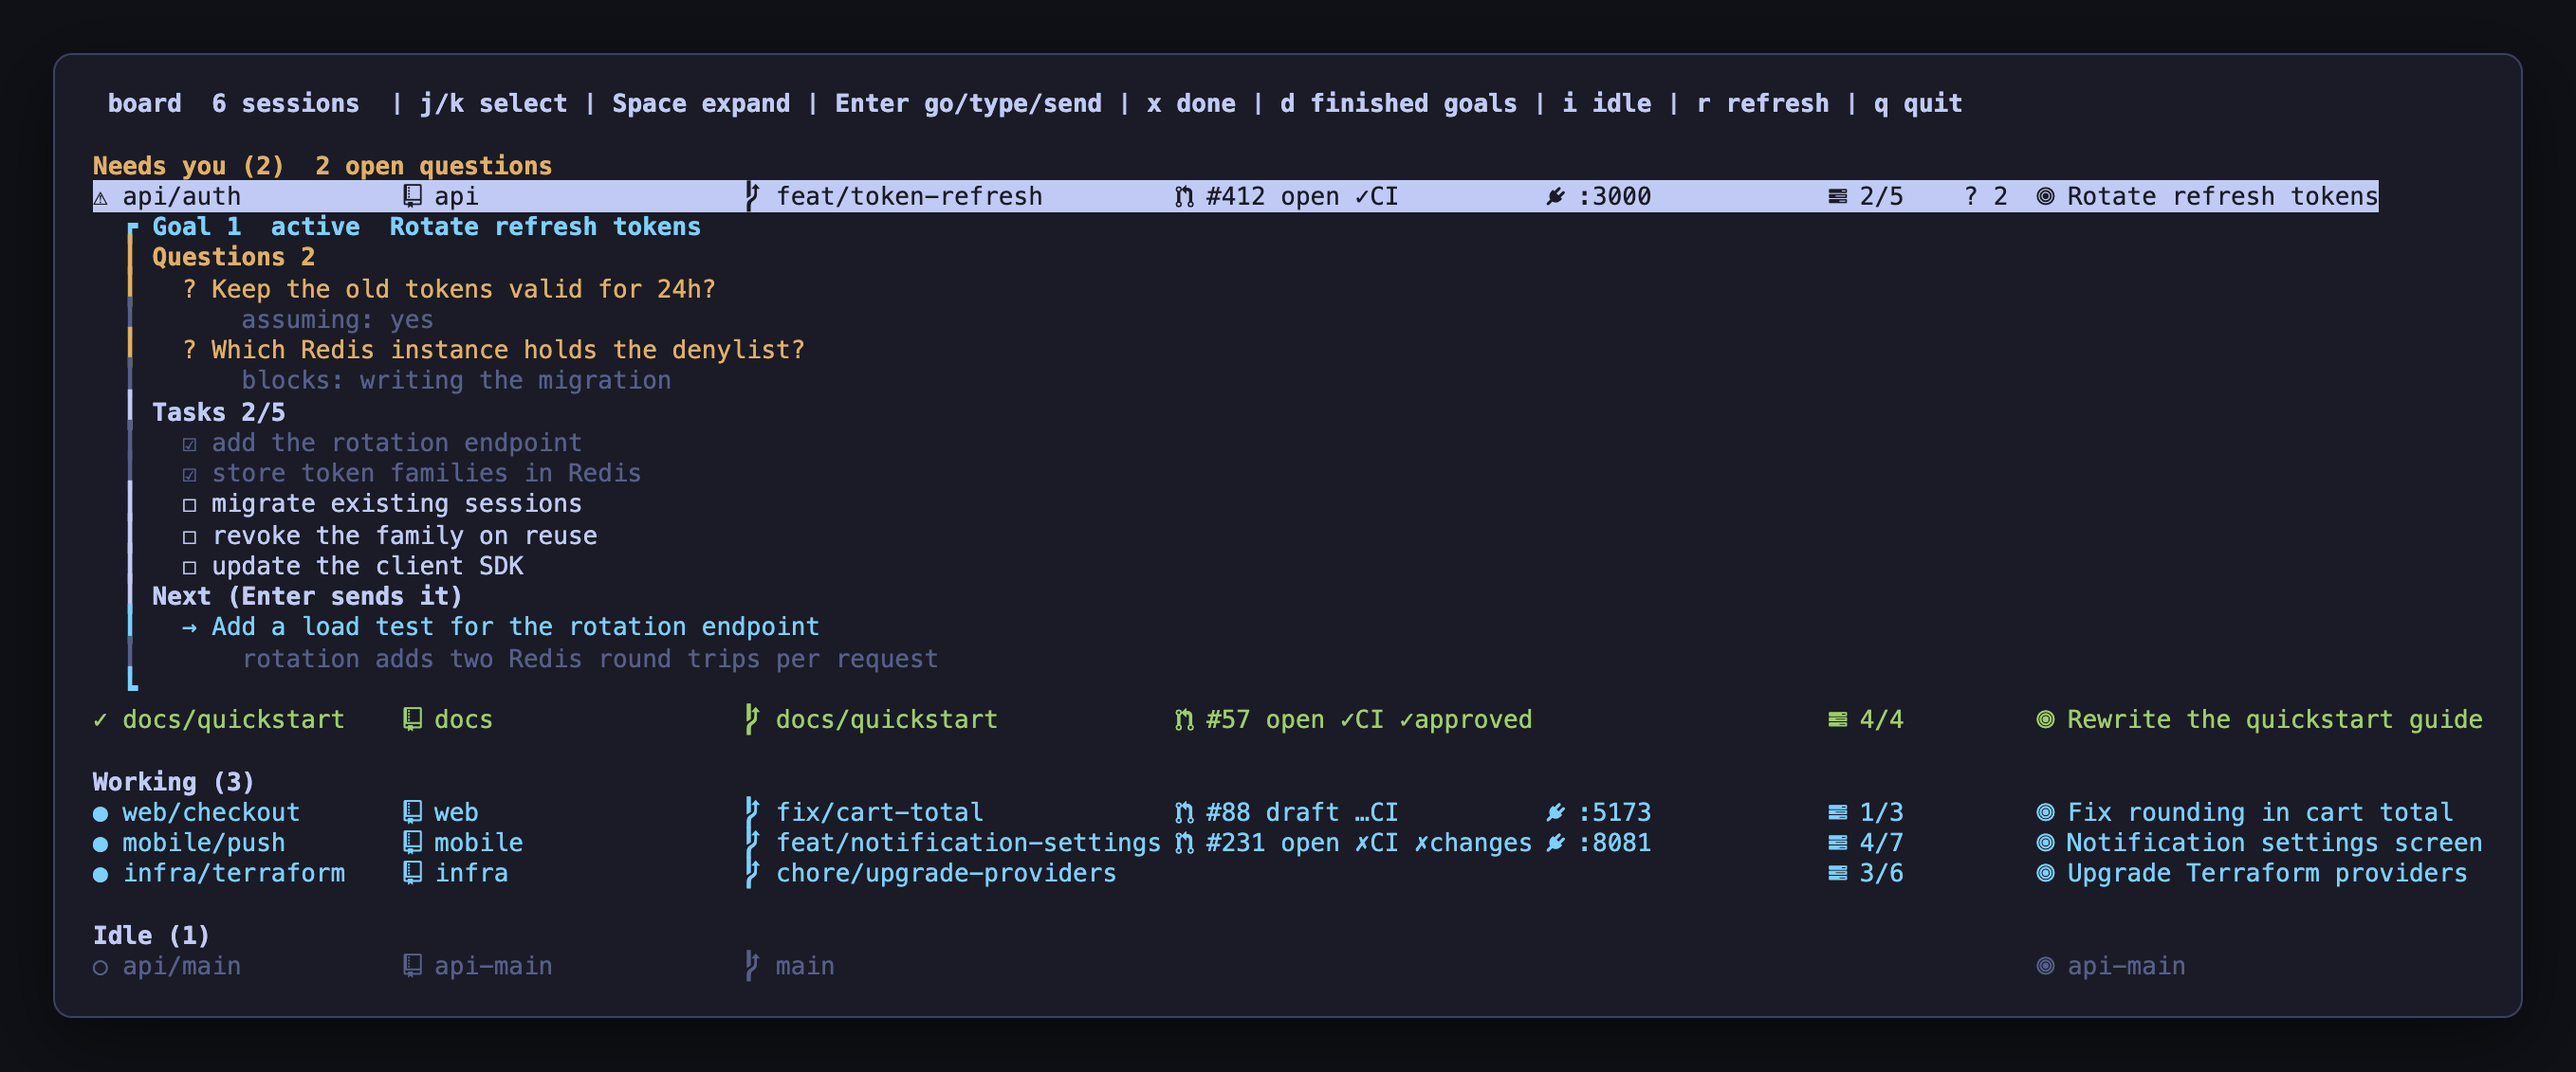
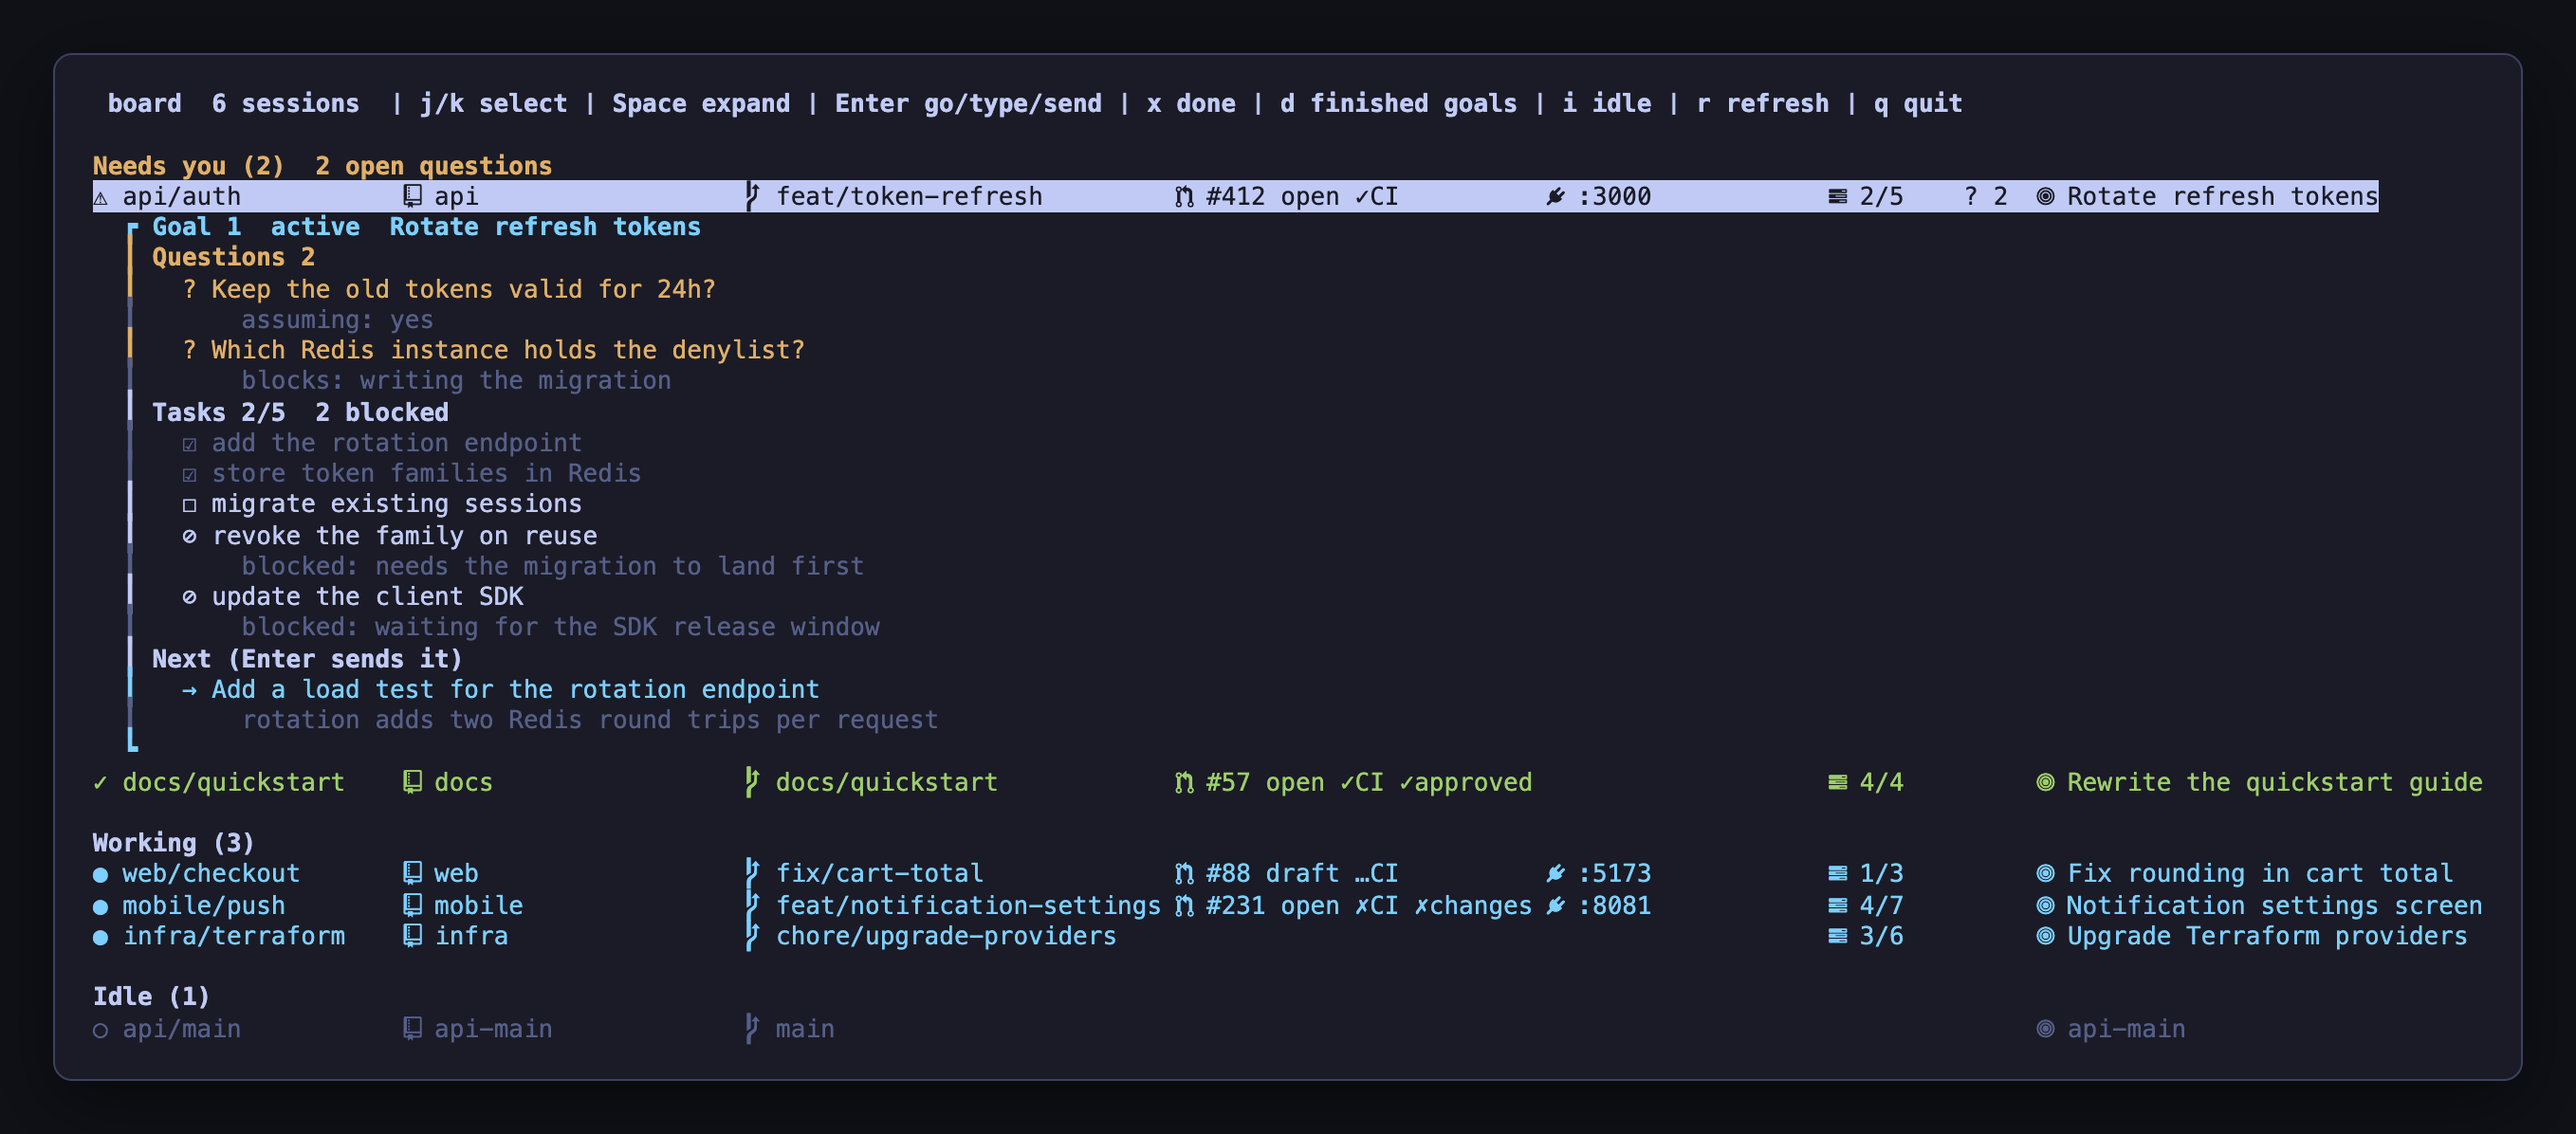
feat: let agents mark tasks as blocked (#2)

diff --git a/README.md b/README.md
@@ -73,7 +73,7 @@ The user watches all sessions on one board and answers from there.
 Run `herdr-board` for the command list and `herdr-board show` for the current notes and their numbers.
 
 - **Goals**: if a request continues the current goal, add tasks to it; if it is a different topic, add a goal with `goal add`. Do not create a goal for something that takes one or two tool calls.
-- **Tasks**: before starting, split the work into 3–7 tasks with `task add`, and run `task done` as each one finishes.
+- **Tasks**: before starting, split the work into 3–7 tasks with `task add`, and run `task done` as each one finishes. When a task cannot be worked on yet (it waits for another task, a merge, a deploy, someone else), mark it with `task block` and the reason, and `task unblock` it when that is resolved.
 - **Questions**: write a question with `ask` before asking the user. Keep working on whatever does not depend on the answer. Use `--assume` when you proceed on an assumption and `--blocks` when some work cannot proceed. Stop only when everything is waiting. Record the reply with `answer`.
 - **Next**: when a goal reaches a natural pause, suggest one to three follow-ups with `next`. The `--prompt` must make sense on its own.
 - **Finishing**: when all tasks and questions are settled, run `goal done`; if the goal is abandoned, `goal drop`.
@@ -91,6 +91,8 @@ herdr-board goal done <g> "<result>"          finished (moved to the archive fil
 herdr-board goal drop <g> "<reason>"          abandoned (moved to the archive file)
 herdr-board task add <g> "<task>"
 herdr-board task done <g> <n>
+herdr-board task block <g> <n> "<reason>"     cannot be worked on yet
+herdr-board task unblock <g> <n>
 herdr-board ask <g> "<question>" [--assume "<working assumption>"] [--blocks "<work that is waiting>"]
 herdr-board answer <g> <n> "<answer>"
 herdr-board next <g> "<label>" --prompt "<instruction>" [--reason "<why>"]
